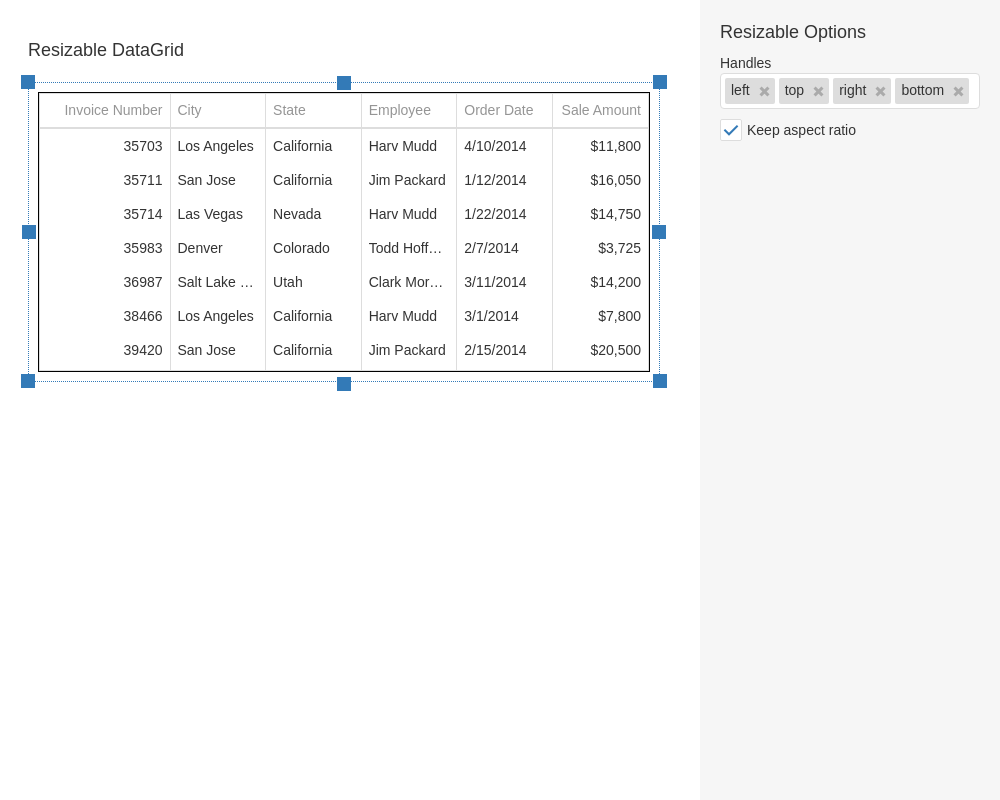
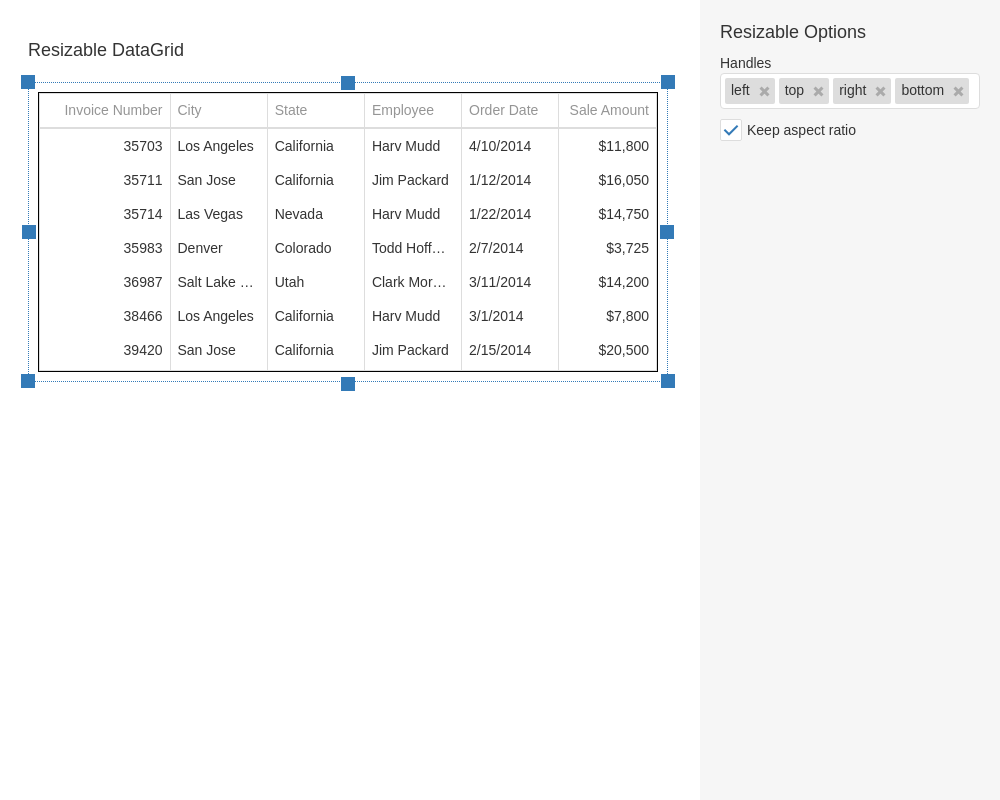
Resizable: add area (#1778)

diff --git a/MVCDemos/Content/DemosStyles/Resizable/Overview.css b/MVCDemos/Content/DemosStyles/Resizable/Overview.css
@@ -1,98 +1,105 @@
 .widget-container {
-    margin-right: 320px;
-    position: absolute;
-    z-index: 1501;
-  }
-  
-  .options {
-    padding: 20px;
-    background-color: rgba(191, 191, 191, 0.15);
-    position: absolute;
-    right: 0;
-    top: 0;
-    bottom: 0;
-    width: 260px;
-  }
-  
-  .caption {
-    font-weight: 500;
-    font-size: 18px;
-  }
-  
-  .option {
-    margin-top: 10px;
-  }
-  
-  #gridContainer {
-    padding: 10px;
-    height: 300px;
-  }
-  
-  #grid {
-    border: 1px solid black;
-  }
-  
-  .dx-resizable-handle-right {
-    border-right: 1px dotted #337ab7;
-  }
-  
-  .dx-resizable-handle-top {
-    border-top: 1px dotted #337ab7;
-  }
-  
-  .dx-resizable-handle-left {
-    border-left: 1px dotted #337ab7;
-  }
-  
-  .dx-resizable-handle-bottom {
-    border-bottom: 1px dotted #337ab7;
-  }
-  
-  .dx-resizable-handle::after {
-    content: "";
-    background-color: #337ab7;
-    position: absolute;
-    width: 12px;
-    height: 12px;
-    border: 1px solid #337ab7;
-    top: calc(50% - 7px);
-  }
-  
-  .dx-resizable-handle-right::after {
-    right: -7px;
-  }
-  
-  .dx-resizable-handle-left::after {
-    left: -7px;
-  }
-  
-  .dx-resizable-handle-corner-top-left::after {
-    left: -7px;
-    top: -7px;
-  }
-  
-  .dx-resizable-handle-corner-top-right::after {
-    right: -7px;
-    top: -7px;
-  }
-  
-  .dx-resizable-handle-corner-bottom-left::after {
-    left: -7px;
-    top: -2px;
-  }
-  
-  .dx-resizable-handle-corner-bottom-right::after {
-    right: -7px;
-    top: -2px;
-  }
-  
-  .dx-resizable-handle-top::after {
-    left: calc(50% - 7px);
-    top: -7px;
-  }
-  
-  .dx-resizable-handle-bottom::after {
-    left: calc(50% - 7px);
-    top: -2px;
-  }
-  
+  width: calc(100% - 360px);
+  height: 100%;
+  margin-right: 320px;
+  position: absolute;
+  z-index: 1501;
+}
+
+.dx-fieldset,
+.dx-field {
+  width: 100%;
+  height: 100%;
+}
+
+.options {
+  padding: 20px;
+  background-color: rgba(191, 191, 191, 0.15);
+  position: absolute;
+  right: 0;
+  top: 0;
+  bottom: 0;
+  width: 260px;
+}
+
+.caption {
+  font-weight: 500;
+  font-size: 18px;
+}
+
+.option {
+  margin-top: 10px;
+}
+
+#gridContainer {
+  padding: 10px;
+  height: 300px;
+}
+
+#grid {
+  border: 1px solid black;
+}
+
+.dx-resizable-handle-right {
+  border-right: 1px dotted #337ab7;
+}
+
+.dx-resizable-handle-top {
+  border-top: 1px dotted #337ab7;
+}
+
+.dx-resizable-handle-left {
+  border-left: 1px dotted #337ab7;
+}
+
+.dx-resizable-handle-bottom {
+  border-bottom: 1px dotted #337ab7;
+}
+
+.dx-resizable-handle::after {
+  content: "";
+  background-color: #337ab7;
+  position: absolute;
+  width: 12px;
+  height: 12px;
+  border: 1px solid #337ab7;
+  top: calc(50% - 7px);
+}
+
+.dx-resizable-handle-right::after {
+  right: -7px;
+}
+
+.dx-resizable-handle-left::after {
+  left: -7px;
+}
+
+.dx-resizable-handle-corner-top-left::after {
+  left: -7px;
+  top: -7px;
+}
+
+.dx-resizable-handle-corner-top-right::after {
+  right: -7px;
+  top: -7px;
+}
+
+.dx-resizable-handle-corner-bottom-left::after {
+  left: -7px;
+  top: -2px;
+}
+
+.dx-resizable-handle-corner-bottom-right::after {
+  right: -7px;
+  top: -2px;
+}
+
+.dx-resizable-handle-top::after {
+  left: calc(50% - 7px);
+  top: -7px;
+}
+
+.dx-resizable-handle-bottom::after {
+  left: calc(50% - 7px);
+  top: -2px;
+}

diff --git a/JSDemos/Demos/Resizable/Overview/React/App.js b/JSDemos/Demos/Resizable/Overview/React/App.js
@@ -28,11 +28,11 @@ function App() {
           <Resizable
             id='gridContainer'
             minWidth={400}
-            maxWidth={1050}
             minHeight={150}
             maxHeight={370}
             keepAspectRatio={keepAspectRatio}
             handles={handles.join(' ')}
+            area='.widget-container .dx-field'
           >
             <DataGrid
               id='grid'

diff --git a/JSDemos/Demos/Resizable/Overview/Vue/App.vue b/JSDemos/Demos/Resizable/Overview/Vue/App.vue
@@ -7,11 +7,11 @@
           <DxResizable
             id="gridContainer"
             :min-width="400"
-            :max-width="1050"
             :min-height="150"
             :max-height="370"
             :keep-aspect-ratio="keepAspectRatio"
             :handles="handles.join(' ')"
+            area=".widget-container .dx-field"
           >
             <DxDataGrid
               id="grid"

diff --git a/JSDemos/Demos/Resizable/Overview/Angular/app/app.component.html b/JSDemos/Demos/Resizable/Overview/Angular/app/app.component.html
@@ -5,11 +5,11 @@
       <dx-resizable
         id="gridContainer"
         [minWidth]="400"
-        [maxWidth]="1050"
         [minHeight]="150"
         [maxHeight]="370"
         [keepAspectRatio]="keepAspectRatio"
         [handles]="handles.join(' ')"
+        area=".widget-container .dx-field"
       >
         <dx-data-grid
           id="grid"

diff --git a/JSDemos/Demos/Resizable/Overview/jQuery/index.js b/JSDemos/Demos/Resizable/Overview/jQuery/index.js
@@ -33,9 +33,9 @@ $(() => {
 
   const resizable = $('#gridContainer').dxResizable({
     minWidth: 400,
-    maxWidth: 1050,
     minHeight: 150,
     maxHeight: 370,
+    area: '.widget-container .dx-field',
   }).dxResizable('instance');
 
   $('#keepAspectRatio').dxCheckBox({

diff --git a/JSDemos/Demos/Resizable/Overview/Angular/app/app.component.css b/JSDemos/Demos/Resizable/Overview/Angular/app/app.component.css
@@ -1,7 +1,15 @@
 .widget-container {
+  width: calc(100% - 360px);
+  height: 100%;
   margin-right: 320px;
   position: absolute;
   z-index: 1501;
+}
+
+.dx-fieldset,
+.dx-field {
+  width: 100%;
+  height: 100%;
 }
 
 .options {

diff --git a/JSDemos/Demos/Resizable/Overview/React/styles.css b/JSDemos/Demos/Resizable/Overview/React/styles.css
@@ -1,7 +1,15 @@
 .widget-container {
+  width: calc(100% - 360px);
+  height: 100%;
   margin-right: 320px;
   position: absolute;
   z-index: 1501;
+}
+
+.dx-fieldset,
+.dx-field {
+  width: 100%;
+  height: 100%;
 }
 
 .options {

diff --git a/JSDemos/Demos/Resizable/Overview/Vue/styles.css b/JSDemos/Demos/Resizable/Overview/Vue/styles.css
@@ -1,7 +1,15 @@
 .widget-container {
+  width: calc(100% - 360px);
+  height: 100%;
   margin-right: 320px;
   position: absolute;
   z-index: 1501;
+}
+
+.dx-fieldset,
+.dx-field {
+  width: 100%;
+  height: 100%;
 }
 
 .options {

diff --git a/JSDemos/Demos/Resizable/Overview/jQuery/styles.css b/JSDemos/Demos/Resizable/Overview/jQuery/styles.css
@@ -1,7 +1,15 @@
 .widget-container {
+  width: calc(100% - 360px);
+  height: 100%;
   margin-right: 320px;
   position: absolute;
   z-index: 1501;
+}
+
+.dx-fieldset,
+.dx-field {
+  width: 100%;
+  height: 100%;
 }
 
 .options {

diff --git a/NetCoreDemos/wwwroot/css/DemosStyles/Resizable/Overview.css b/NetCoreDemos/wwwroot/css/DemosStyles/Resizable/Overview.css
@@ -1,7 +1,15 @@
 .widget-container {
+  width: calc(100% - 360px);
+  height: 100%;
   margin-right: 320px;
   position: absolute;
   z-index: 1501;
+}
+
+.dx-fieldset,
+.dx-field {
+  width: 100%;
+  height: 100%;
 }
 
 .options {

diff --git a/NetCoreDemos/Controllers/ResizableController.cs b/NetCoreDemos/Controllers/ResizableController.cs
@@ -5,7 +5,7 @@ using System.Linq;
 
 namespace DevExtreme.NETCore.Demos.Controllers {
     public class ResizableController : Controller {
-        public ActionResult ResizableOverview() {
+        public ActionResult Overview() {
             return View(SampleData.Orders);
         }
     }

diff --git a/MVCDemos/Controllers/ResizableController.cs b/MVCDemos/Controllers/ResizableController.cs
@@ -6,7 +6,7 @@ using System.Web.Mvc;
 
 namespace DevExtreme.MVC.Demos.Controllers {
     public class ResizableController : Controller {
-        public ActionResult ResizableOverview() {
+        public ActionResult Overview() {
             return View(SampleData.Orders);
         }
     }
